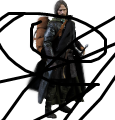
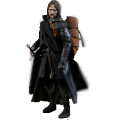
start of shadows

diff --git a/render3d.js b/render3d.js
@@ -72,12 +72,17 @@ var createRenderEngine3d = function (canvasTarget) {
     var cube = undefined;
     var renderer = undefined;
 
+    //VARIABLE GLOBAL PC
+    var mapRight = undefined;
+    var mapLeft = undefined;
+
     var createEnv = function(){
         
         scene = new THREE.Scene()
         camera = new THREE.PerspectiveCamera(75,window.innerWidth/window.innerHeight,0.1,1000 )
         renderer = new THREE.WebGLRenderer({alpha:true})
         renderer.setSize(window.innerWidth, window.innerHeight)
+        renderer.shadowMap.enabled = true;
         document.body.appendChild(renderer.domElement)
         renderer.render(scene, camera)
 
@@ -89,14 +94,30 @@ var createRenderEngine3d = function (canvasTarget) {
         
         cube = new THREE.Mesh(geometry,material)
 
+
+        /// Change cube to sprite
+        mapRight = new THREE.TextureLoader().load( './img/pc.png' );
+        mapLeft = new THREE.TextureLoader().load( './img/pc2.png' );
+        const materialSprite = new THREE.SpriteMaterial( { map: mapRight } );
+
+        cube = new THREE.Sprite( materialSprite );
+
+        cube.material.map = mapLeft
+
+
         scene.add(cube)
         
         // cube.rotation.x =0.5
         // cube.rotation.y =0.8
-        
         var light = new THREE.AmbientLight(0x404040)
-        
         scene.add(light)
+
+        const directionalLight = new THREE.DirectionalLight( 0xffffff, 0.5 );
+        directionalLight.castShadow = true;
+        // directionalLight.position.x = 3
+        // directionalLight.position.y = 3
+        // directionalLight.shadow.bias =-0.0001
+        scene.add( directionalLight );
         
         camera.position.z =5 
         importScene()
@@ -106,9 +127,18 @@ var createRenderEngine3d = function (canvasTarget) {
 
     var importScene = function () {
         var loader = new GLTFLoader()
+        var addShadows = function (node) {
+            if (node.isMesh) {
+                node.castShadow = true;
+                node.receiveShadow = true;
+            }
+        }
         var onImport = function (gltf) {
-            gltf.scene.position.y = -5
-            gltf.scene.rotation.x = 0.2
+            gltf.scene.position.y = -0.5
+            gltf.scene.rotation.y = (3.1416/2)
+            gltf.scene.
+            // gltf.scene.traverse(addShadows)
+            // gltf.scene.scale.set(0.5,0.5,0.5)
             console.log(gltf);
             scene.add(gltf.scene)
         }
@@ -166,12 +196,20 @@ var createRenderEngine3d = function (canvasTarget) {
                 posInit = posInit+speed
                 cube.position.x = cube.position.x + speed3d
                 camera.position.x = cube.position.x
+
+                if (cube.material.map != mapRight) {
+                    cube.material.map = mapRight
+                }
+                
                 
             }
             if (state == "left") {
                 posInit = posInit-speed
                 cube.position.x = cube.position.x - speed3d
                 camera.position.x = cube.position.x
+                if (cube.material.map != mapLeft) {
+                    cube.material.map = mapLeft
+                }
             }
             if (isJumping) {
                 posY = posY-jumpSpeed
